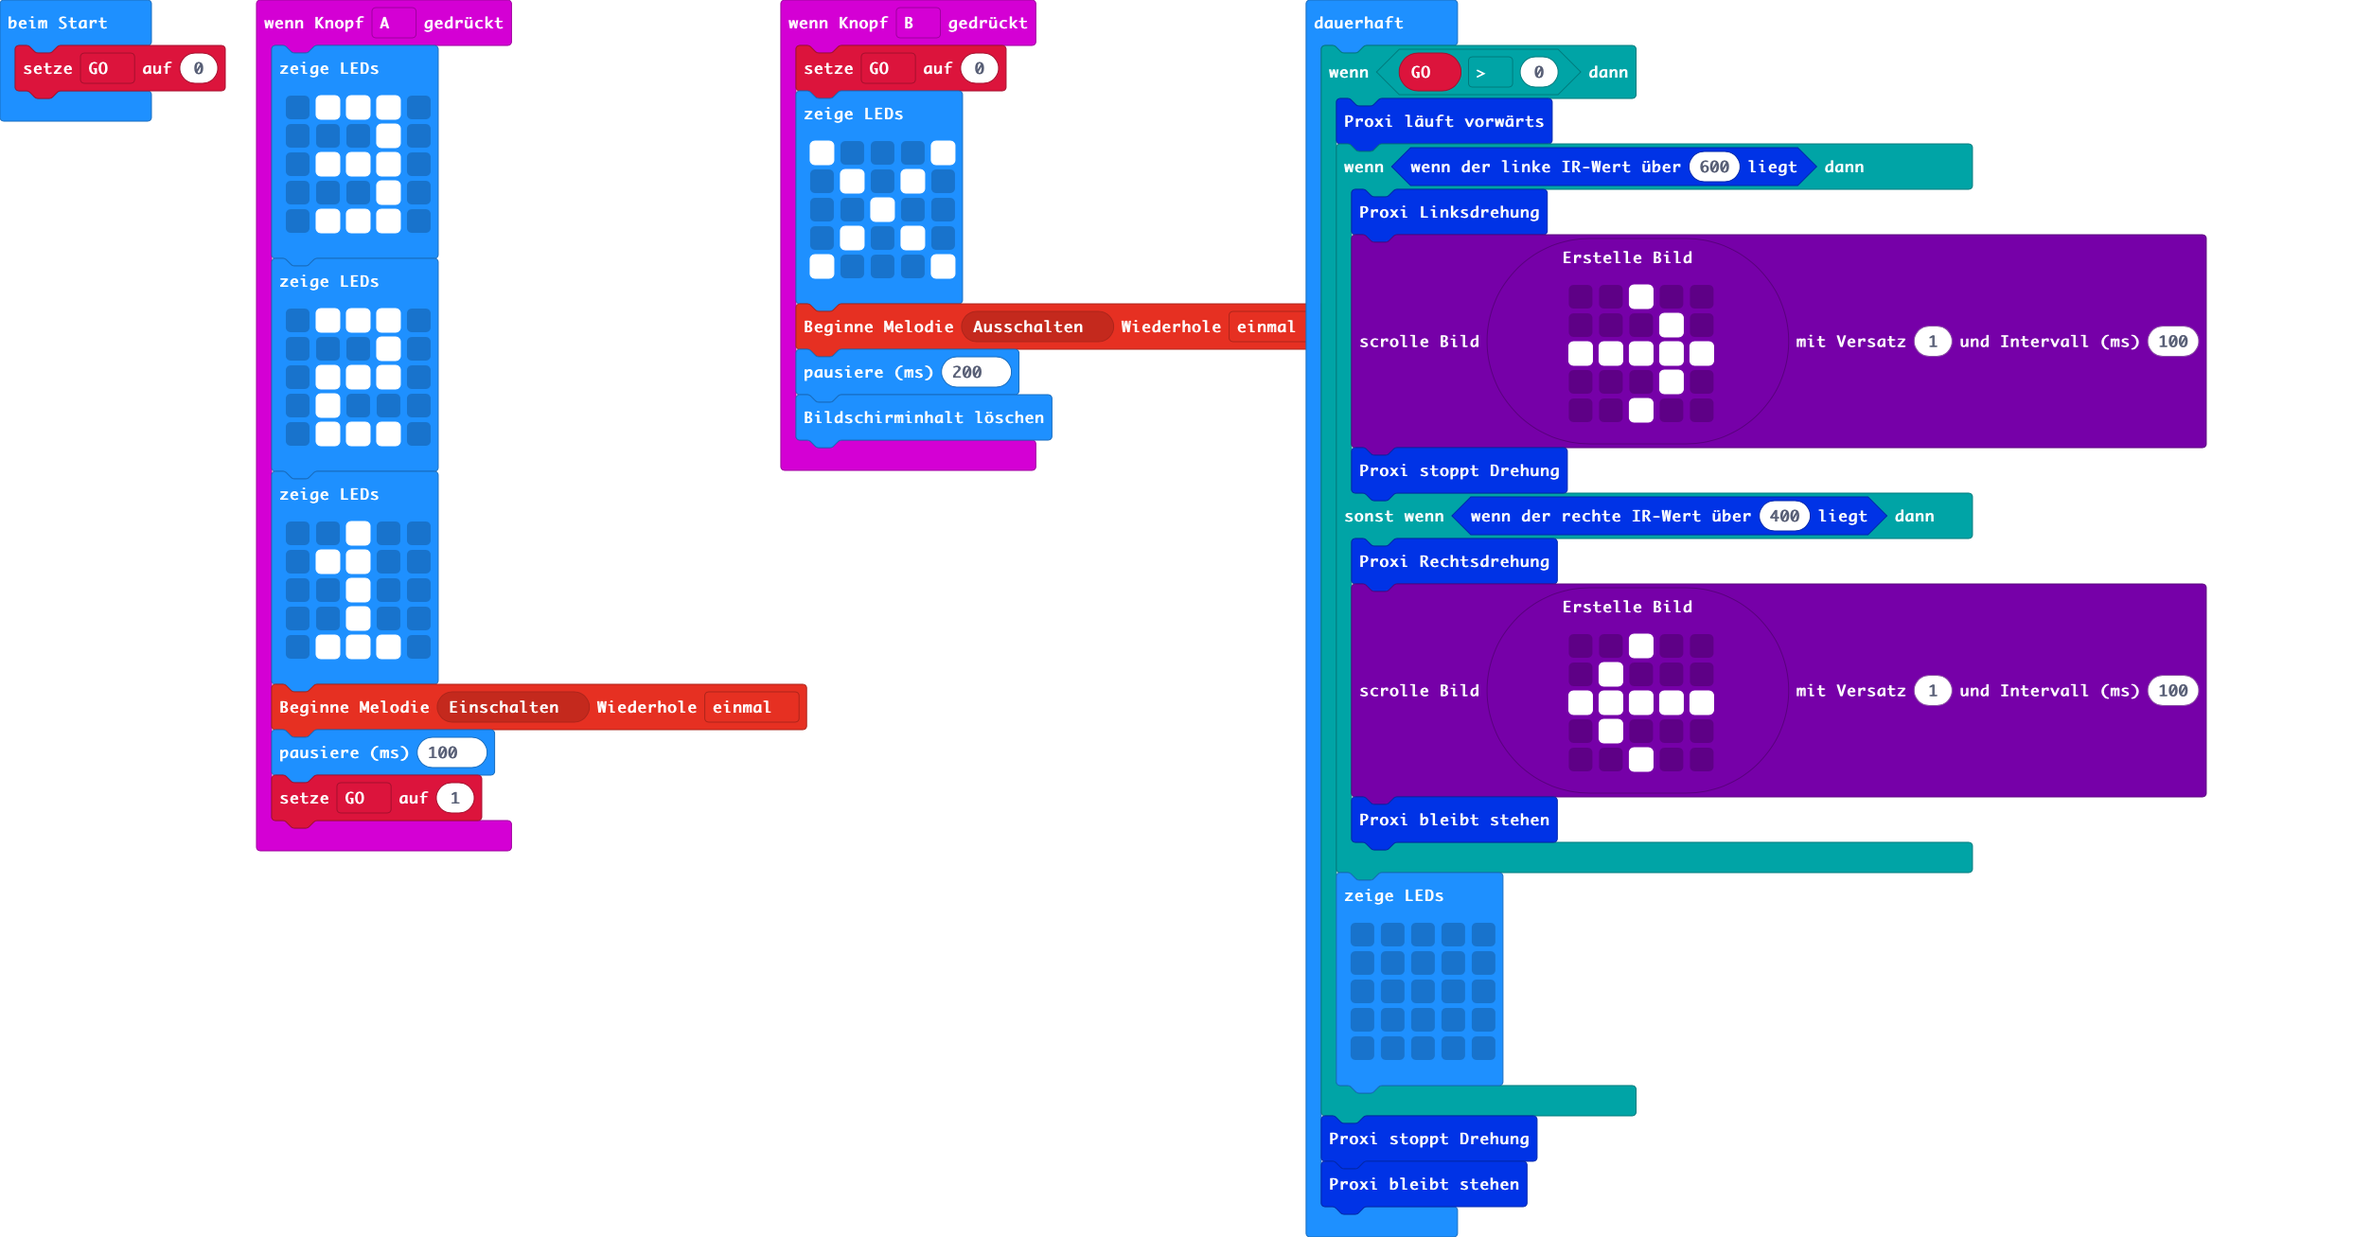
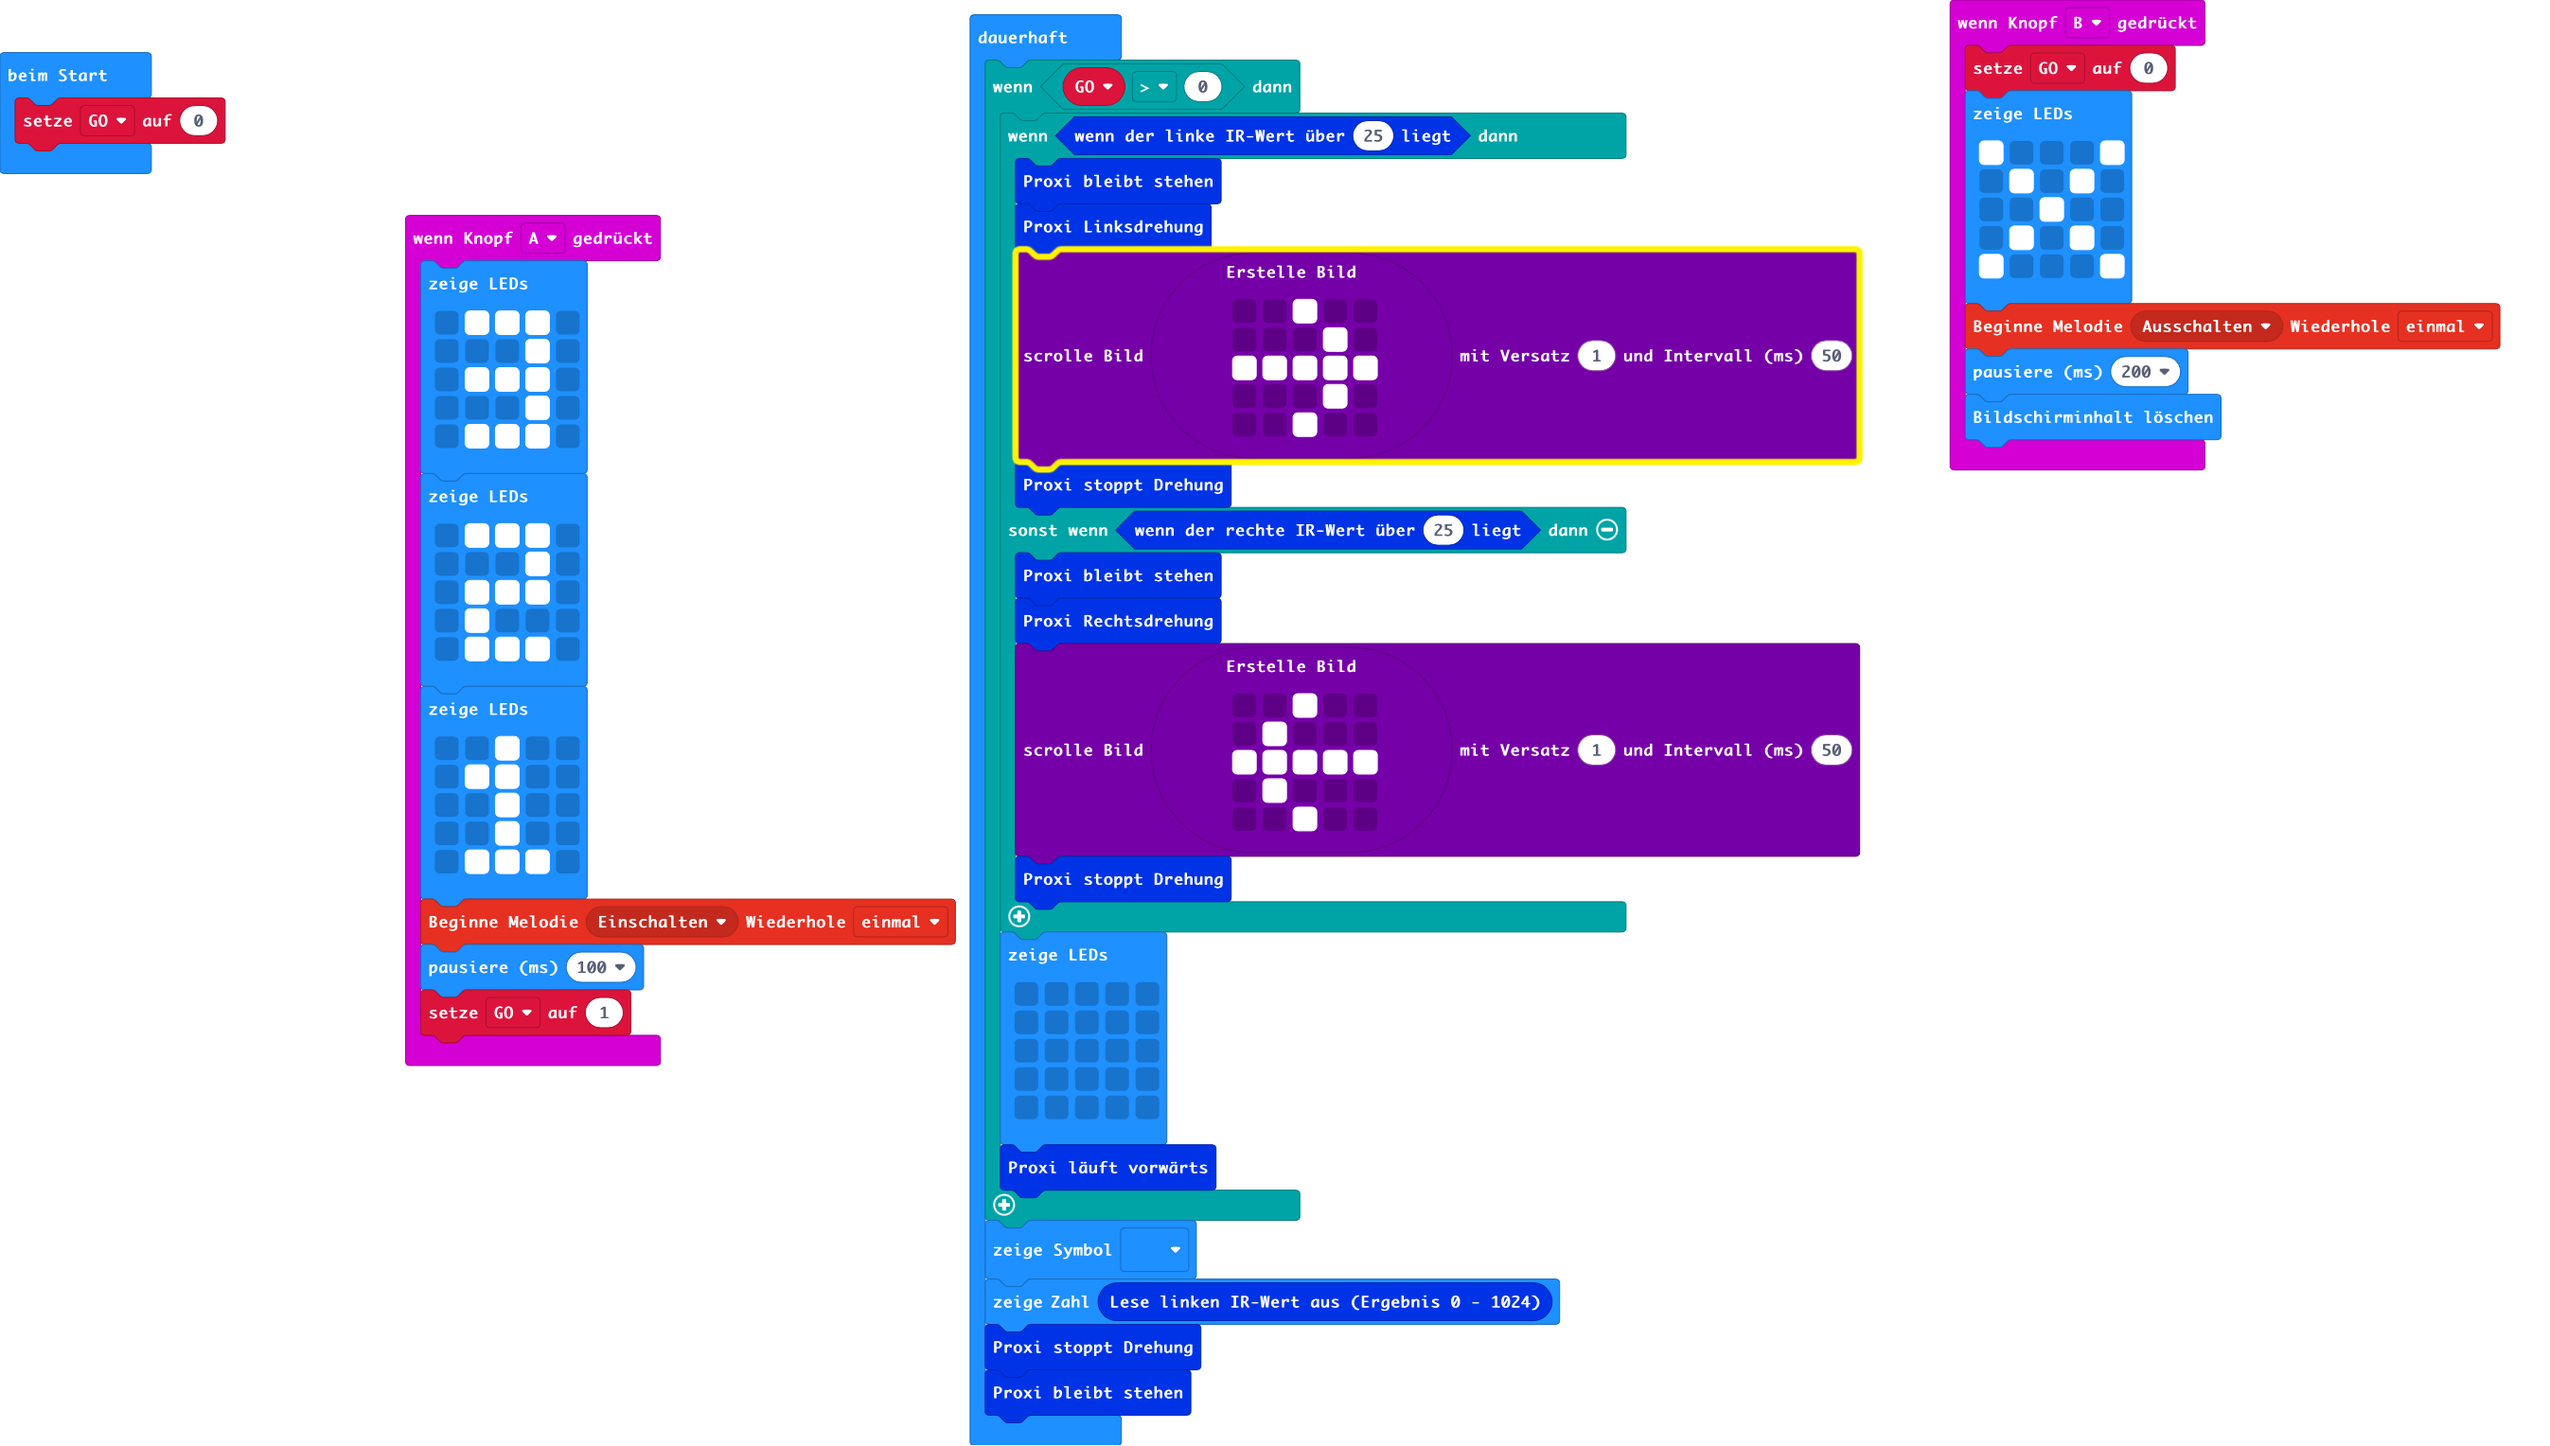
Aktualisiere main.blocks, main.ts

diff --git a/main.ts b/main.ts
@@ -41,8 +41,8 @@ let GO = 0
 GO = 0
 basic.forever(function () {
     if (GO > 0) {
-        Proxi.vorwärts()
-        if (Proxi.LBlock(600)) {
+        if (Proxi.LBlock(25)) {
+            Proxi.stehenbleiben()
             Proxi.linksdrehung()
             images.createImage(`
                 . . # . .
@@ -50,9 +50,10 @@ basic.forever(function () {
                 # # # # #
                 . . . # .
                 . . # . .
-                `).scrollImage(1, 100)
+                `).scrollImage(1, 50)
             Proxi.drehungsstopp()
-        } else if (Proxi.RBlock(400)) {
+        } else if (Proxi.RBlock(25)) {
+            Proxi.stehenbleiben()
             Proxi.rechtsdrehung()
             images.createImage(`
                 . . # . .
@@ -60,8 +61,8 @@ basic.forever(function () {
                 # # # # #
                 . # . . .
                 . . # . .
-                `).scrollImage(1, 100)
-            Proxi.stehenbleiben()
+                `).scrollImage(1, 50)
+            Proxi.drehungsstopp()
         }
         basic.showLeds(`
             . . . . .
@@ -70,7 +71,10 @@ basic.forever(function () {
             . . . . .
             . . . . .
             `)
+        Proxi.vorwärts()
     }
+    basic.showIcon(IconNames.Yes)
+    basic.showNumber(Proxi.Lese_LBlock())
     Proxi.drehungsstopp()
     Proxi.stehenbleiben()
 })
